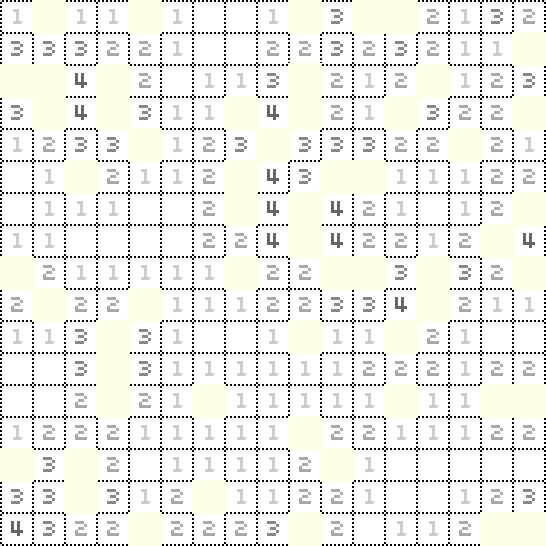
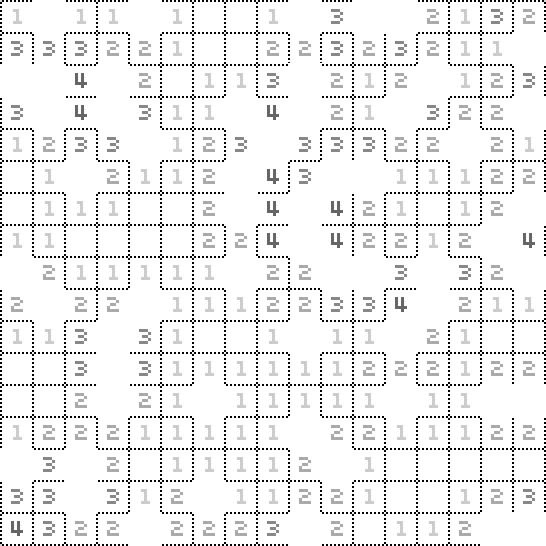
almost came up with initial design

diff --git a/public/blocks/toolbar/toolbar.less b/public/blocks/toolbar/toolbar.less
@@ -2,26 +2,63 @@
   &__tool {
     position: relative;
     display: inline-block;
-    margin: 0 0 0 20px;
+    margin: 0 0 0 10px;
     padding: 0;
     height: 30px;
     width: 30px;
     vertical-align: bottom;
     background: transparent;
-    border: solid #fff;
-    border-width: 0 4px;
+    background-position: center;
+    background-repeat: no-repeat;
+    border: solid currentColor;
+    border-width: 0 2px;
     text-align: center;
     cursor: pointer;
+    opacity: .5;
+
+    &:after {
+      position: absolute;
+      top: -2px;
+      left: 0;
+      height: 100%;
+      width: 100%;
+      content: "";
+      border: solid currentColor;
+      border-width: 2px 0;
+    }
+
+    &:hover {
+      opacity: 1;
+    }
+
+    &_pen {
+      background-image: url("img/icon_pen.png");
+    }
+
+    &_eraser {
+      background-image: url("img/icon_eraser.png");
+    }
+
+    &_color {
+      background-image: url("img/icon_color.png");
+    }
+
+    &_submit {
+      background-image: url("img/icon_submit.png");
+    }
   }
 
-  &__tool:after {
+  input[type=color] {
     position: absolute;
-    top: -4px;
-    left: 0;
-    height: 100%;
-    width: 100%;
-    content: "";
-    border: solid #fff;
-    border-width: 4px 0;
+    left: -10000px;
+    top: -10000px;
+  }
+
+  input[type=radio] {
+    display: none;
+  }
+
+  input:checked + &__tool {
+    opacity: 1;
   }
 }

diff --git a/public/blocks/canvas/canvas.less b/public/blocks/canvas/canvas.less
@@ -1,17 +1,38 @@
 .canvas {
-  width: 1101px;
+  position: relative;
+  z-index: 1;
+  width: 1118px;
 
   &__preview {
     float: left;
-    border: 3px solid #bbb;
-    border-right: 0;
-
+    margin-top: -1px;
+    margin-left: -1px;
+    margin-right: 20px;
     background: repeat center;
     background-image: url('img/preview.png');
+    border: solid currentColor;
+    border-width: 2px;
   }
 
   &__canvas {
-    border: 4px solid #bbb;
-    background: #222;
+    display: block;
+    position: relative;
+    border: solid currentColor;
+    border-width: 2px;
+    background: repeat center;
+    background-image: url('img/canvas.png');
+    cursor: pointer;
+
+    // &:after {
+    //   position: absolute;
+    //   z-index: -1;
+    //   top: -2px;
+    //   left: 0;
+    //   height: 100%;
+    //   width: 100%;
+    //   content: "";
+    //   border: solid currentColor;
+    //   border-width: 2px 0;
+    // }
   }
 }

diff --git a/public/blocks/tabs/tabs.less b/public/blocks/tabs/tabs.less
@@ -7,10 +7,10 @@
     float: left;
     position: relative;
     display: inline-block;
-    padding: 44px 10px 4px 10px;
-    margin-left: -4px;
-    border: solid #fff;
-    border-width: 0 4px;
+    padding: 44px 12px 6px 12px;
+    margin-left: -2px;
+    border: solid currentColor;
+    border-width: 0 2px;
     font-size: 30px;
     letter-spacing: -3px;
     cursor: pointer;
@@ -22,7 +22,7 @@
     top: 100%;
     left: 0;
     width: 100%;
-    border-top: 4px solid #fff;
+    border-top: 2px solid currentColor;
     content: "";
   }
 

diff --git a/public/blocks/body/body.less b/public/blocks/body/body.less
@@ -1,12 +1,11 @@
 .body {
-  margin: 40px auto;
-  padding: 0 45px 45px 45px;
-  background: #555;
-  width: 1101px;
-
-  &__canvas {
+  position: relative;
+  width: 1114px;
+  margin: auto;
+  
+  &__easel {
     .clearfix();
-    margin-top: 24px;
+    margin-top: 34px;
   }
 
   &__tabs {

diff --git a/public/less/common.less b/public/less/common.less
@@ -13,6 +13,7 @@ html, body {
 
 body {
   margin: 0;
+  // padding: 40px 0;
   background: #222;
 }
 
